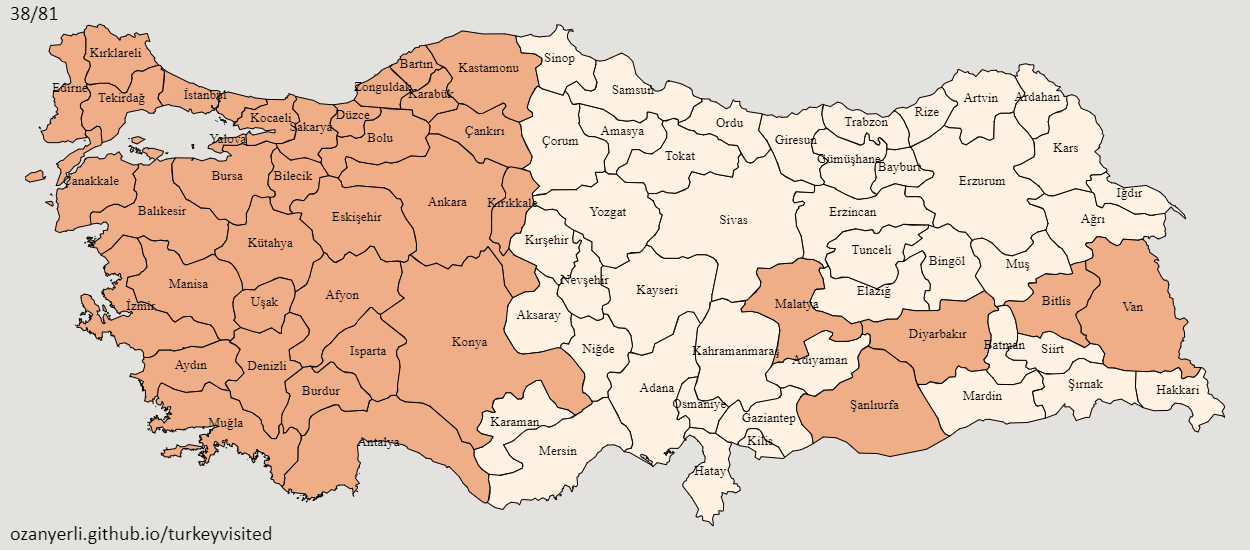
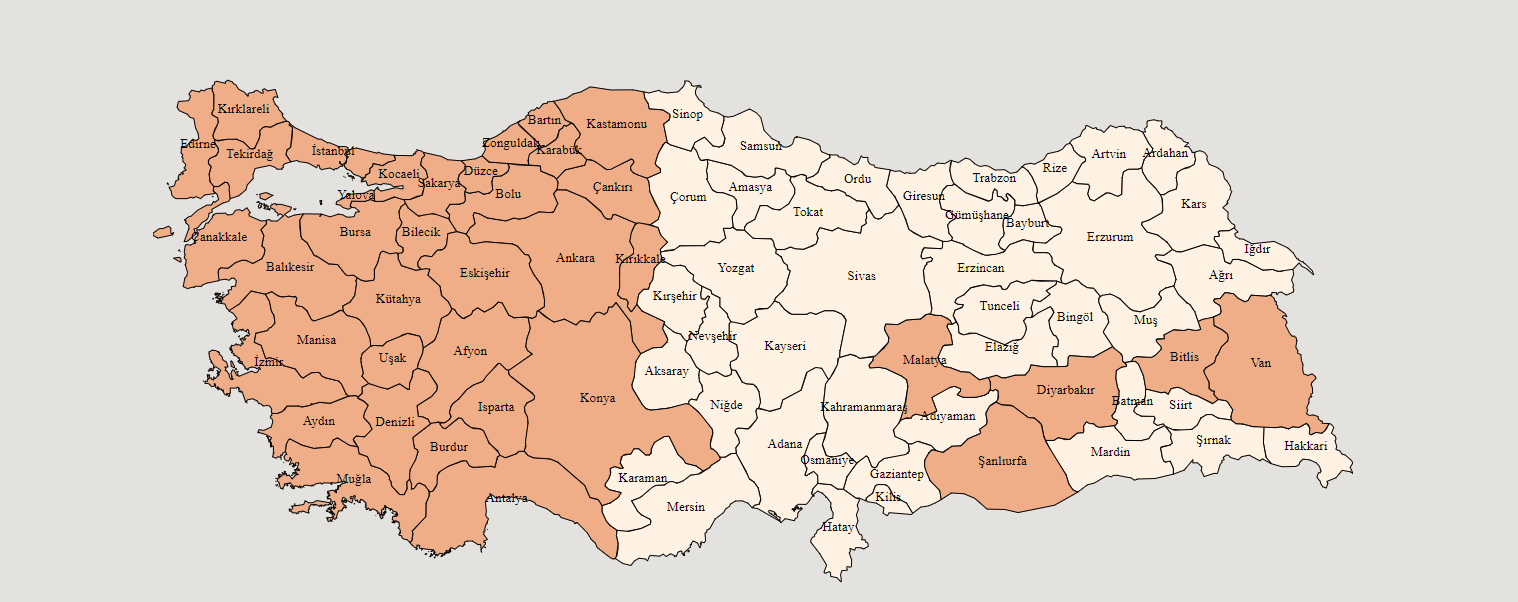
swap home and about #2 change map image #3

diff --git a/index.html b/index.html
@@ -1,12 +1,82 @@
 ---
 layout: default
-title: "Home"
+title: "Who Am I"
 ---
 
-{% if site.show_excerpts %}
-  {% include home.html %}
-  {% include analytics.google.html %}
-{% else %}
-  {% include archive.html title="Posts" %}
-{% endif %}
+<article>
+  <section>
+    <div  class="about-header">
+      <img src="images/me.png" alt="au" height="50"/>
+      <h3>Hello, I'm Ahmet.</h3>
+    </div>
+    
+    <span> I live in İzmir and work as a software engineer at
+      <a href="obss.tech">OBSS</a>. Passionate software engineer offering 5
+      years of experience. Also I'm big of the fun cross platform framework
+      special react native 🤘 Currently, i work as a software consultant in the
+      education solutions department of Garanti technology company.
+    </span>
+  </section>
+
+  <hr />
+
+  <section>
+    <h3>Experience</h3>
+    {% include timeline.html %}
+  </section>
+
+  <section>
+    <h3>Interests</h3>
+    <h4>Bike</h4>
+    <p>
+      Cycling is my favorite activity since I can remember myself, I have used
+      many types of bikes such as mountain, road and city bikes. Now I have a
+      road and mountain bike, I do tours whenever I have time. You can see my
+      tours on <a href="https://www.strava.com/athletes/61854450">strava</a>
+    </p>
+
+    <h4>Music</h4>
+    <p>
+      I like rock and metal in general. But I love to listen to different genres
+      and songs. You can see my open lists on
+      <a href="https://open.spotify.com/user/aahmet.272">Spotify</a> What is
+      your favorite type?
+    </p>
+
+    <h4>Anime</h4>
+    <p>
+      You can see the animes I watched and continue to watch below. If you have
+      similar suggestions, please share them with me. Currently i continue to
+      watch OnePiece 👒🍖☠🏴☠
+    </p>
+
+    <div class="tags">
+      <span class="tag">HxH</span>
+      <span class="tag">SAO</span>
+      <span class="tag">Log Horizon</span>
+      <span class="tag">Shigatsu wa Kimi no Uso (Your Lie in April)</span>
+      <span class="tag">akame ga kill</span>
+      <span class="tag">code geass</span>
+      <span class="tag">attack on titan</span>
+      <span class="tag">death note</span>
+      <span class="tag">Tokyo Ghoul - Best for me</span>
+      <span class="tag">Steins;GateTuturuu</span>
+      <span class="tag">No Game No Life</span>
+      <span class="tag">Mirai Nikki - Yuno </span>
+      <span class="tag">Pokémon</span>
+      <span class="tag">Elfen Lied(lucy)</span>
+      <span class="tag">AOT</span>
+      <span class="tag">Boku Dake ga Inai Machi</span>
+      <span class="tag">my here achademy</span>
+      <span class="tag">Demon Slayer</span>
+    </div>
+    <h4>Video Games</h4>
+    <p>I love FPS and MMORPG games, I can say that I am a big CSGO fan, I have some game platform links below so that maybe we can play together
+      <a href="https://steamcommunity.com/id/errorau/">steam</a> /  riot #3RR0R4U / blizzard: error#24873 /  epic: 3RR0R4U
+
+    </p>
+    
+  </section>
+</article>
+
 

diff --git a/_includes/home.html b/_includes/home.html
@@ -1,8 +1,8 @@
 {%- assign posts = paginator.posts | default: site.posts -%} {% for post in
 posts %}
 <article>
-  {% include meta.html post=post preview=true %} {{ post.excerpt }} {% if
-  post.external_link %}
+  {% include meta.html post=post preview=true %} {{ post.excerpt }},
+   {% if post.show_read_more %}
   <div class="more"><a href="{{ post.url | relative_url }}">read more</a></div>
   {% endif %}
 </article>

diff --git a/_sass/about.scss b/_sass/about.scss
@@ -1,0 +1,9 @@
+.about-header {
+    display: flex;
+        justify-content: center;
+        align-items: center;
+        flex-direction: column; 
+        img{
+            height: 200px; border-radius: 50%
+        }
+}

diff --git a/blog.html b/blog.html
@@ -1,0 +1,11 @@
+---
+title: "Blog"
+layout: default
+---
+
+{% if site.show_excerpts %}
+  {% include home.html %}
+  {% include analytics.google.html %}
+{% else %}
+  {% include archive.html title="Posts" %}
+{% endif %}

diff --git a/_sass/index.sass b/_sass/index.sass
@@ -7,7 +7,7 @@ $line-height: 1.6 !default
 $link-color: #68f !default
 $dark: #212228 !default
 $light: #ffffff !default
-
+@import about
 
 
 @function reduce ($percent)

diff --git a/_posts/2017-03-01-welcome-to-jekyll.md b/_posts/2017-03-01-welcome-to-jekyll.md
@@ -2,6 +2,7 @@
 title: "Welcome to Jekyll"
 layout: post
 show_read_more: true
+
 ---
 
 You’ll find this post in your `_posts` directory. Go ahead and edit it and re-build the site to see your changes. You can rebuild the site in many different ways, but the most common way is to run `jekyll serve`, which launches a web server and auto-regenerates your site when a file is updated.
